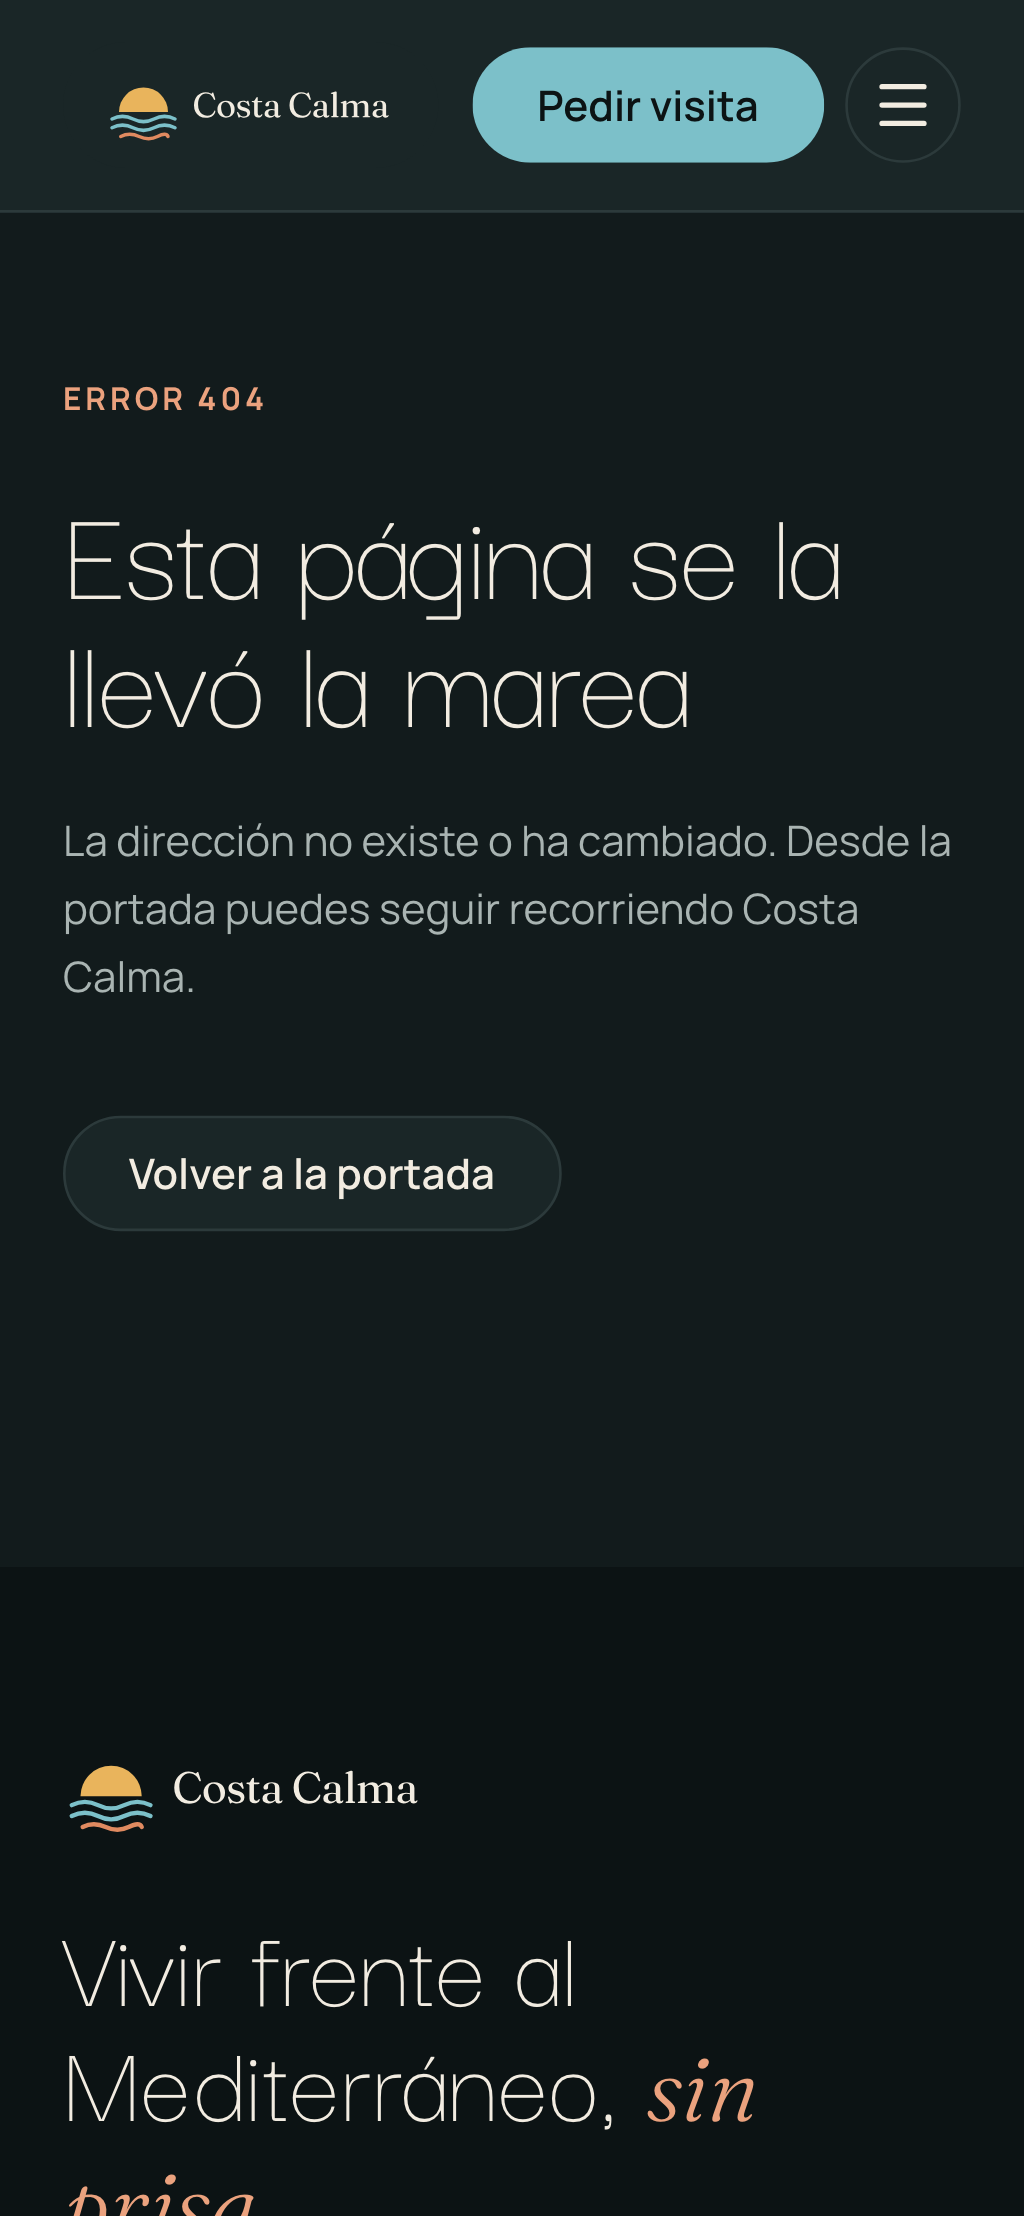
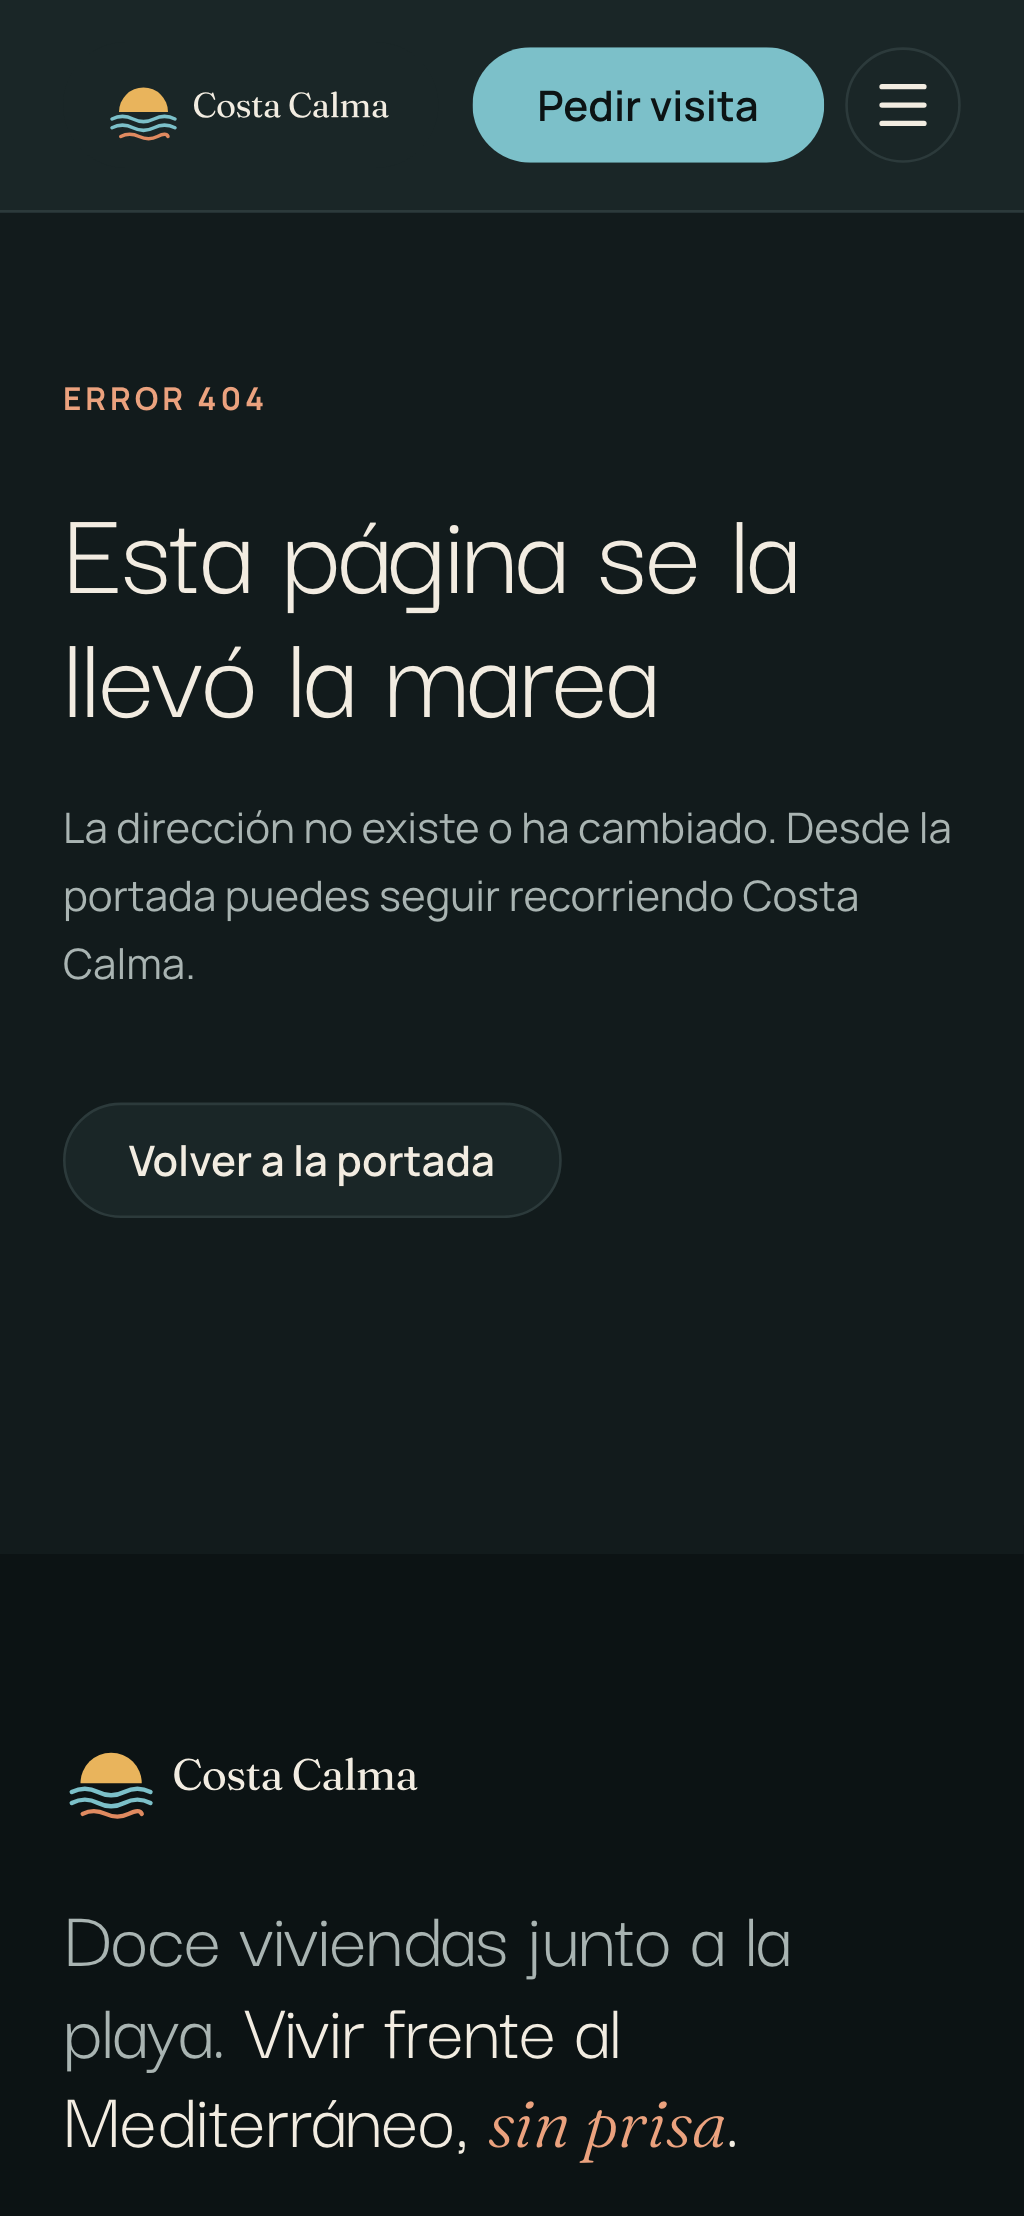
docs: Vesper-style type scale in CLAUDE.md and ADR 0002, refreshed captures (#20)

diff --git a/CLAUDE.md b/CLAUDE.md
@@ -103,8 +103,8 @@ Tema por defecto "Día"; "Noche" con `prefers-color-scheme: dark` y `[data-theme
 
 - Scrim (`--scrim`, utilidad `bg-scrim`): degradado desde abajo con el `surface-sunken` de Noche al 80 % en el 40 % inferior, que se desvanece hacia arriba. El texto sobre imagen va solo en ese 40 % inferior, con la utilidad `on-media`: así llega a 4,5:1 incluso sobre una imagen blanca (lo comprueba `src/styles/tokens.test.ts`).
 - En Día, `olivo` y `reservado` no llegan a 4,5:1 sobre `surface` ni `surface-sunken`: los estados se muestran sobre `surface-raised` (tarjetas).
-- Tipografía (ADR 0002), con `next/font/google`: **Darker Grotesque** 300 para titulares y textos grandes, **Manrope** (interfaz, 400/600/700) y **Fraunces** cursiva solo para las palabras de acento (el logo va trazado en SVG).
-- Escala: display-xl 144/0,85 en mayúsculas (solo la marca decorativa del hero), display-l 88/0,95, heading 44/44 (Darker Grotesque 300); title 20/28 600, body 16/26, small 14/22, eyebrow 12/16 700 mayúsculas +1.5px, price 24/30 600 (Manrope). display-xl y display-l son fluidos desde 390 px (72 y 52 px) y alcanzan su tamaño de marca en escritorio (≥ 1120 px).
+- Tipografía (ADR 0002), con `next/font/google`: **Darker Grotesque** (300/400/500) para titulares, frases destacadas y cifras, siempre sin mayúsculas, **Manrope** (interfaz, 400/600/700) y **Fraunces** cursiva solo para las palabras de acento (el logo va trazado en SVG).
+- Escala (referencia: Vesper): display-xl 240/0,85 300 (marca decorativa), display-l 80/0,98 400 (titulares de sección), statement 56/1,08 400 (frase destacada a dos tonos: arranque en `ink-muted`, resto en `ink`), figure 52/1 500 (cifras con una línea de texto pequeño debajo), heading 30/1,02 500 (títulos de tarjeta), en Darker Grotesque; title 20/28 600, body 16/26, small 14/22, eyebrow 12/16 700 mayúsculas +1.5px, price 24/30 600 (Manrope). display-xl, display-l, statement y figure son fluidos desde 390 px (64, 48, 32 y 40 px) y alcanzan su tamaño en escritorio (≥ 1120 px). Las mayúsculas solo van en `eyebrow`.
 - Acento: componente `Accent` (`components/ui/accent.tsx`, utilidad `type-accent`) para la palabra clave de un titular: Fraunces cursiva al 0,8 em, en `terracota-text` (4,5:1 a cualquier tamaño), o en `on-media-accent` dentro de `on-media`.
 - Espaciado: 4, 8, 16, 24, 40, 64, 112 px. Secciones separadas 112px en escritorio y 64px en móvil.
 - Radios: 6px (campos), 14px (tarjetas), 32px (imágenes hero), pill (botones y chips).

diff --git a/docs/adr/0002-darker-grotesque-display-type.md b/docs/adr/0002-darker-grotesque-display-type.md
@@ -2,7 +2,8 @@
 
 Los titulares y los textos grandes pasan de Fraunces a Darker Grotesque, una grotesca fina, siguiendo las referencias de Jesús (macnaagroup.com). Manrope sigue en la interfaz porque Darker Grotesque, con su altura de x muy baja, se lee peor a 14–16 px. Fraunces queda para el logo y para las palabras de acento en cursiva. Se descartó Cabinet Grotesk, la fuente de la referencia, porque su licencia (ITF Free Font License) prohíbe distribuir los archivos desde repositorios o servidores públicos, y este repo es público. Cargarla desde el CDN de Fontshare la sacaría de `next/font` y añadiría una dependencia externa. Hanken Grotesk y Bricolage Grotesque (OFL) se probaron como alternativas y se prefirió el carácter más editorial de Darker Grotesque, a cambio de tamaños de display mayores.
 
-## Al implementarla (#11)
+## Al implementarla (#11 y #20)
 
 - El logo no carga Fraunces: su nombre va trazado en SVG. Por eso Fraunces se carga solo en cursiva, para las palabras de acento.
 - El acento va en `terracota-text` y no en `terracota`, porque es texto y debe llegar a 4,5:1 a cualquier tamaño. Sobre imagen usa `on-media-accent` (el `terracota-text` de Noche, igual en los dos temas), ya que el de Día no se lee sobre el scrim oscuro.
+- Escala revisada en #20 siguiendo la demo Vesper: titulares sin mayúsculas, tres pesos de Darker Grotesque (300 para la marca, 400 para titulares y frases, 500 para cifras y títulos de tarjeta) y dos estilos nuevos, `statement` (frase destacada a dos tonos) y `figure` (cifras). Vesper usa la cursiva de su sans para el acento; aquí se mantiene Fraunces cursiva, que distingue a Costa Calma.
